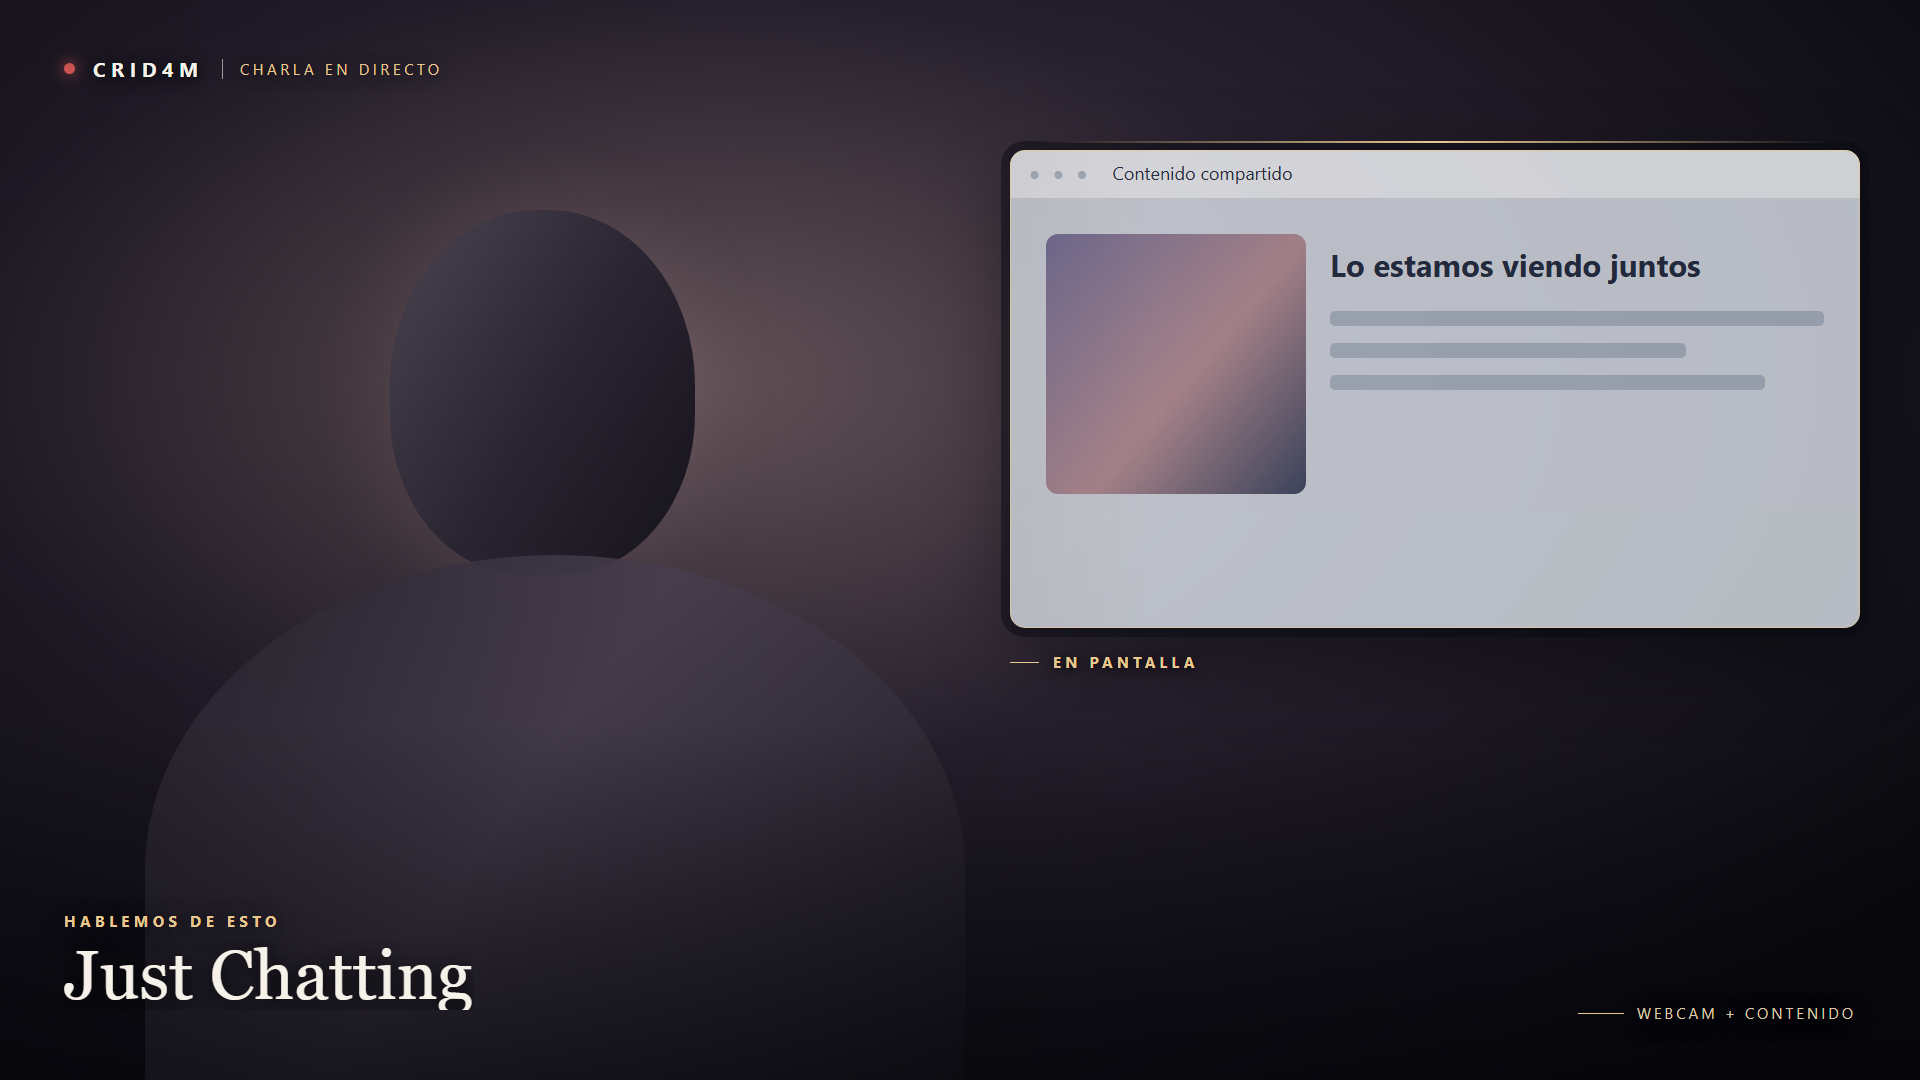
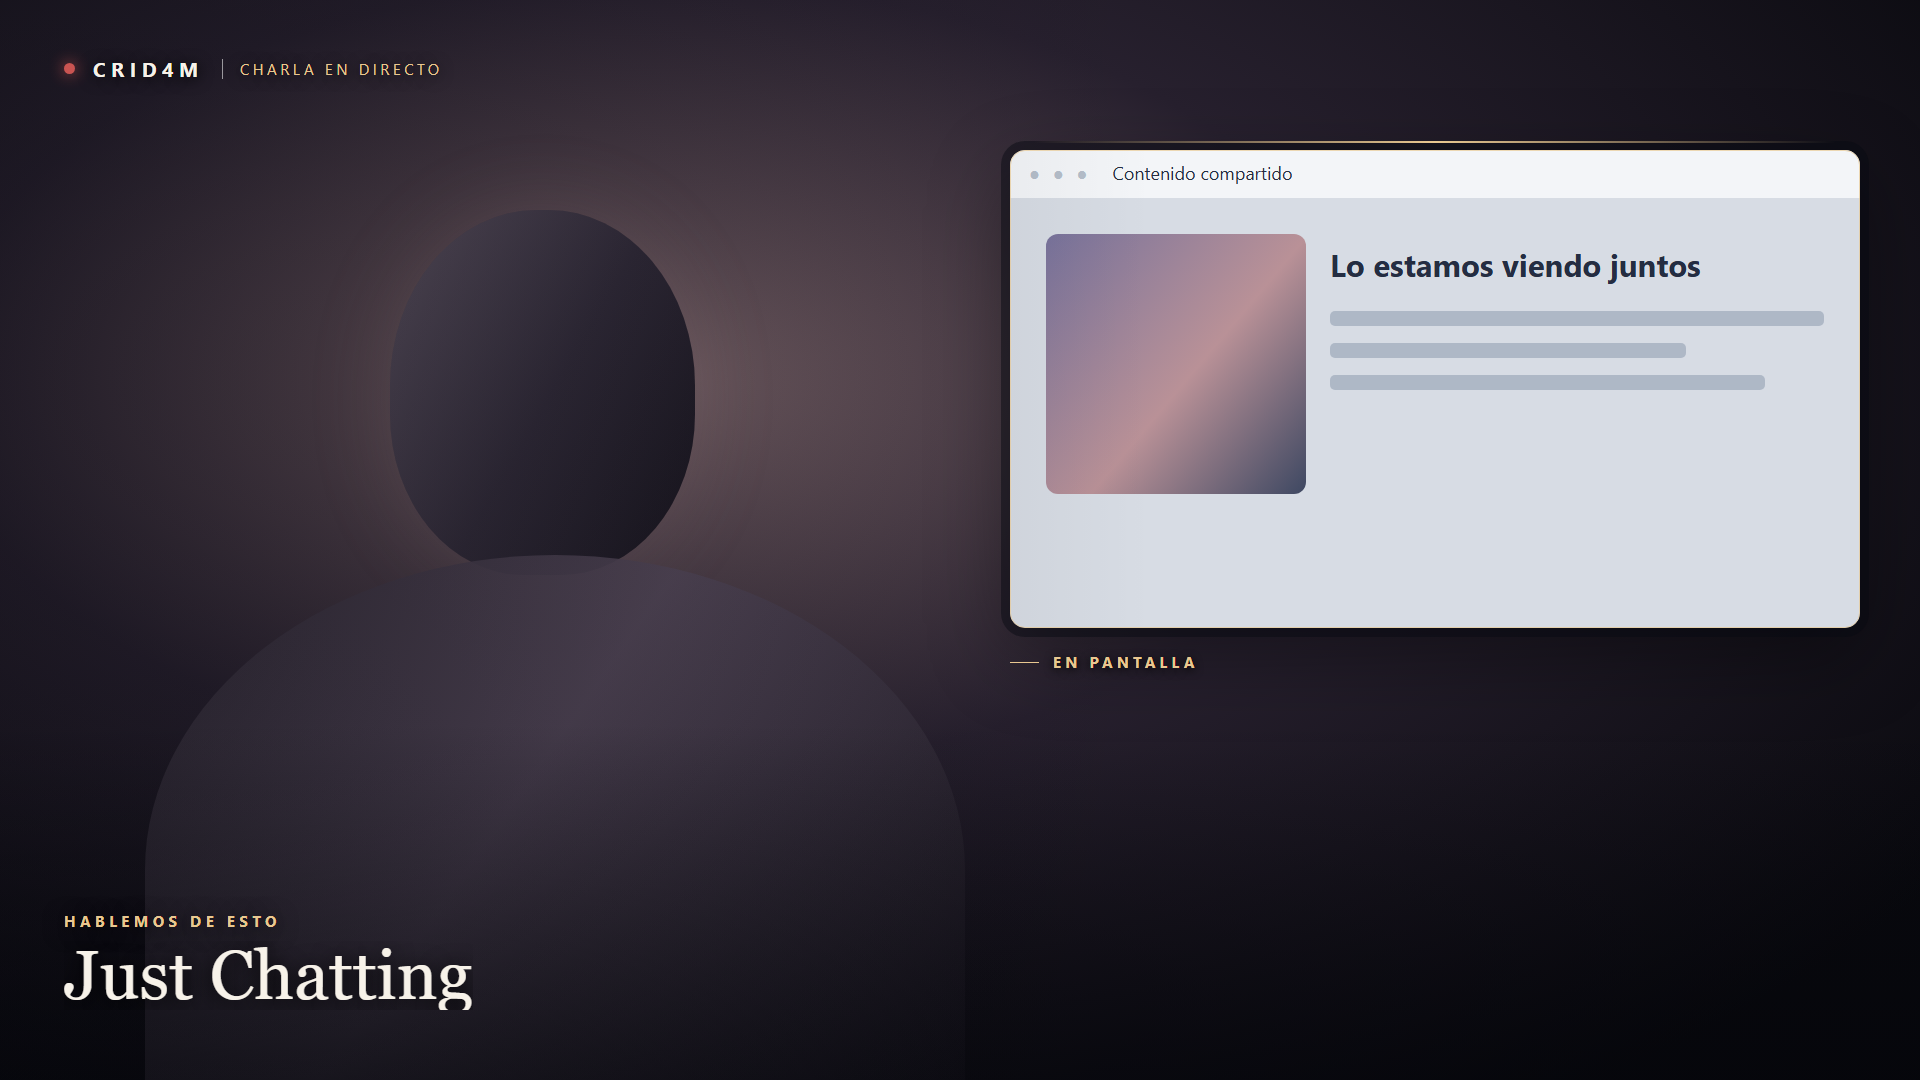
Charla + compartir usa la captura original y sale opaca por defecto
- La captura va dentro de una escena auxiliar con el filtro de opacidad:
  ya no se copia, sigue a la original y no captura dos veces. La copia
  antigua se retira al volver a crear la escena.
- Opacidad del 65 al 100 %, opaca por defecto; sin el rótulo
  «Webcam + contenido».

Changed region(s): [[0.5, 0.1222, 0.9688, 0.5806], [0.8438, 0.9167, 0.9688, 0.9472]]

diff --git a/src/panel/obs-setup.ts b/src/panel/obs-setup.ts
@@ -417,34 +417,41 @@ export async function crearEscena(pedir: PedirObs, tipo: TipoEscena): Promise<st
   return hecho;
 }
 
-/** Charla con cámara a pantalla completa y una captura independiente semitransparente. */
-export const ESCENA_COMPARTIDA = { escena: '✦ Charla + compartir', fuente: 'ESC Charla compartir', captura: 'ESC Compartir contenido' } as const;
+/**
+ * Charla con la cámara a pantalla completa y tu captura a la derecha.
+ * La captura no se copia: va dentro de una escena auxiliar («capa») y el
+ * filtro de opacidad se pone a esa escena. Así, si cambias de ventana en la
+ * captura original, aquí se ve lo mismo, y la original no lleva filtros nuevos.
+ */
+export const ESCENA_COMPARTIDA = { escena: '✦ Charla + compartir', fuente: 'ESC Charla compartir', capa: 'ESC Compartir (capa)' } as const;
+/** La copia que se hacía antes (2 oct 2026); si queda, se retira. */
+const COPIA_ANTIGUA = 'ESC Compartir contenido';
 export const urlCharlaCompartida = () =>
   `http://127.0.0.1:${config.panel.port}/biblioteca/overlays/charla-compartida.html`;
 export const HUECO_COMPARTIDO = { x: 1010, y: 150, ancho: 850, alto: 478 };
 const KINDS_COMPARTIR = ['monitor_capture', 'window_capture', 'game_capture', 'screen_capture', 'xcomposite_input', 'pipewire'];
 const FILTRO_COMPARTIR = 'ESC Transparencia de compartir';
 
-export async function crearCharlaCompartida(pedir: PedirObs, origen?: string, opacidad = .84): Promise<string[]> {
-  const { escena, fuente, captura } = ESCENA_COMPARTIDA;
+export async function crearCharlaCompartida(pedir: PedirObs, origen?: string, opacidad = 1): Promise<string[]> {
+  const { escena, fuente, capa } = ESCENA_COMPARTIDA;
   const { inputs } = await pedir<{ inputs: { inputName: string; inputKind: string }[] }>('GetInputList');
+  if (origen === COPIA_ANTIGUA || origen === fuente) throw new ErrorObs('Elige la captura original, no una fuente de esta escena.');
   const origenInput = origen ? inputs.find((i) => i.inputName === origen && KINDS_COMPARTIR.some((k) => i.inputKind.startsWith(k))) : null;
   if (origen && !origenInput) throw new ErrorObs('Elige una captura de pantalla, ventana o juego que exista en OBS.');
-  if (origen === captura || origen === fuente) throw new ErrorObs('Elige la captura original, no una fuente de esta escena.');
-  const copiaActual = inputs.find((i) => i.inputName === captura);
-  if (origenInput && copiaActual && copiaActual.inputKind !== origenInput.inputKind) {
-    throw new ErrorObs('La captura anterior era de otro tipo. Elimina «ESC Compartir contenido» en OBS y vuelve a crear esta escena.');
-  }
 
   const hecho: string[] = [];
-  try {
-    await pedir('CreateScene', { sceneName: escena });
-    hecho.push(`Escena «${escena}» creada.`);
-  } catch (err) {
-    if (!(err instanceof ErrorObs) || err.codigo !== YA_EXISTE) throw err;
-    hecho.push(`La escena «${escena}» ya existía: se completa sin mover tus fuentes.`);
-  }
-  const items = async () => (await pedir<{ sceneItems: { sourceName: string; sceneItemId: number }[] }>('GetSceneItemList', { sceneName: escena })).sceneItems;
+  const crearEscenaSiFalta = async (nombre: string) => {
+    try {
+      await pedir('CreateScene', { sceneName: nombre });
+      return true;
+    } catch (err) {
+      if (!(err instanceof ErrorObs) || err.codigo !== YA_EXISTE) throw err;
+      return false;
+    }
+  };
+  hecho.push(await crearEscenaSiFalta(escena) ? `Escena «${escena}» creada.` : `La escena «${escena}» ya existía: se completa sin mover tus fuentes.`);
+  const itemsDe = async (nombre: string) => (await pedir<{ sceneItems: { sourceName: string; sceneItemId: number }[] }>('GetSceneItemList', { sceneName: nombre })).sceneItems;
+  const items = () => itemsDe(escena);
   const ajustes = { width: 1920, height: 1080, ...FPS, is_local_file: false, url: urlCharlaCompartida(), shutdown: true, restart_when_active: false, reroute_audio: false };
   let overlayId = (await items()).find((i) => i.sourceName === fuente)?.sceneItemId;
   if (inputs.some((i) => i.inputName === fuente)) {
@@ -470,26 +477,36 @@ export async function crearCharlaCompartida(pedir: PedirObs, origen?: string, op
     hecho.push(`Webcam «${cam.inputName}» a pantalla completa.`);
   }
 
+  // La copia de antes la creaba este panel y no la usa nada más: fuera, para no capturar dos veces.
+  if (inputs.some((i) => i.inputName === COPIA_ANTIGUA)) {
+    await pedir('RemoveInput', { inputName: COPIA_ANTIGUA });
+    hecho.push(`Quitada la copia antigua «${COPIA_ANTIGUA}»: ahora se usa tu captura original.`);
+  }
+
   if (!origenInput) hecho.push('Selecciona una captura de OBS para mostrarla a la derecha.');
   else {
-    const { inputSettings } = await pedir<{ inputSettings: Record<string, unknown> }>('GetInputSettings', { inputName: origenInput.inputName });
-    const copiaExiste = inputs.some((i) => i.inputName === captura);
-    let id = (await items()).find((i) => i.sourceName === captura)?.sceneItemId;
-    if (copiaExiste) {
-      await pedir('SetInputSettings', { inputName: captura, inputSettings, overlay: false });
-      if (id === undefined) ({ sceneItemId: id } = await pedir<{ sceneItemId: number }>('CreateSceneItem', { sceneName: escena, sourceName: captura, sceneItemEnabled: true }));
-    } else {
-      ({ sceneItemId: id } = await pedir<{ sceneItemId: number }>('CreateInput', { sceneName: escena, inputName: captura, inputKind: origenInput.inputKind, inputSettings, sceneItemEnabled: true }));
-    }
-    // Una captura que traiga audio no debe duplicar el sonido de la fuente original.
-    await pedir('SetInputMute', { inputName: captura, inputMuted: true }).catch(() => {});
-    const { filters } = await pedir<{ filters: { filterName: string }[] }>('GetSourceFilterList', { sourceName: captura });
-    if (filters.some((f) => f.filterName === FILTRO_COMPARTIR)) {
-      await pedir('SetSourceFilterSettings', { sourceName: captura, filterName: FILTRO_COMPARTIR, filterSettings: { opacity: opacidad }, overlay: true });
-    } else {
-      await pedir('CreateSourceFilter', { sourceName: captura, filterName: FILTRO_COMPARTIR, filterKind: KIND_COLOR, filterSettings: { opacity: opacidad } });
-    }
     const { baseWidth, baseHeight } = await pedir<{ baseWidth: number; baseHeight: number }>('GetVideoSettings');
+    // En la capa solo va la captura elegida, llenando el lienzo.
+    await crearEscenaSiFalta(capa);
+    let idEnCapa: number | undefined;
+    for (const i of await itemsDe(capa)) {
+      if (i.sourceName === origenInput.inputName && idEnCapa === undefined) idEnCapa = i.sceneItemId;
+      else await pedir('RemoveSceneItem', { sceneName: capa, sceneItemId: i.sceneItemId });
+    }
+    if (idEnCapa === undefined) ({ sceneItemId: idEnCapa } = await pedir<{ sceneItemId: number }>('CreateSceneItem', { sceneName: capa, sourceName: origenInput.inputName, sceneItemEnabled: true }));
+    await pedir('SetSceneItemTransform', { sceneName: capa, sceneItemId: idEnCapa, sceneItemTransform: {
+      positionX: 0, positionY: 0, alignment: 5, rotation: 0,
+      boundsType: 'OBS_BOUNDS_SCALE_INNER', boundsAlignment: 0, boundsWidth: baseWidth, boundsHeight: baseHeight,
+    } });
+    const { filters } = await pedir<{ filters: { filterName: string }[] }>('GetSourceFilterList', { sourceName: capa });
+    if (filters.some((f) => f.filterName === FILTRO_COMPARTIR)) {
+      await pedir('SetSourceFilterSettings', { sourceName: capa, filterName: FILTRO_COMPARTIR, filterSettings: { opacity: opacidad }, overlay: true });
+    } else if (opacidad < 1) {
+      await pedir('CreateSourceFilter', { sourceName: capa, filterName: FILTRO_COMPARTIR, filterKind: KIND_COLOR, filterSettings: { opacity: opacidad } });
+    }
+
+    let id = (await items()).find((i) => i.sourceName === capa)?.sceneItemId;
+    if (id === undefined) ({ sceneItemId: id } = await pedir<{ sceneItemId: number }>('CreateSceneItem', { sceneName: escena, sourceName: capa, sceneItemEnabled: true }));
     const sx = baseWidth / 1920, sy = baseHeight / 1080;
     const r = HUECO_COMPARTIDO;
     await pedir('SetSceneItemTransform', { sceneName: escena, sceneItemId: id, sceneItemTransform: {
@@ -497,7 +514,9 @@ export async function crearCharlaCompartida(pedir: PedirObs, origen?: string, op
       boundsType: 'OBS_BOUNDS_SCALE_INNER', boundsAlignment: 0, boundsWidth: r.ancho * sx, boundsHeight: r.alto * sy,
     } });
     await pedir('SetSceneItemIndex', { sceneName: escena, sceneItemId: id, sceneItemIndex: cam ? 1 : 0 });
-    hecho.push(`Copia independiente de «${origenInput.inputName}» colocada a la derecha con ${Math.round(opacidad * 100)} % de opacidad.`);
+    hecho.push(opacidad < 1
+      ? `«${origenInput.inputName}» a la derecha con ${Math.round(opacidad * 100)} % de opacidad. Sigue a tu captura original.`
+      : `«${origenInput.inputName}» a la derecha, opaca. Sigue a tu captura original.`);
   }
   await pedir('SetSceneItemIndex', { sceneName: escena, sceneItemId: overlayId, sceneItemIndex: (await items()).length - 1 });
   return hecho;

diff --git a/src/panel/panel.test.ts b/src/panel/panel.test.ts
@@ -118,6 +118,15 @@ const obsFalso: ConObs = async (trabajo) => {
       case 'CreateScene':
         if (obs.items[d.sceneName]) throw yaExiste();
         obs.items[d.sceneName] = [];
+        obs.filtros[d.sceneName] = [];
+        return {};
+      case 'RemoveSceneItem':
+        obs.items[d.sceneName] = obs.items[d.sceneName]!.filter((i) => i.sceneItemId !== d.sceneItemId);
+        return {};
+      case 'RemoveInput':
+        obs.entradas = obs.entradas.filter((e) => e.inputName !== d.inputName);
+        for (const [escena, lista] of Object.entries(obs.items)) obs.items[escena] = lista.filter((i) => i.sourceName !== d.inputName);
+        delete obs.filtros[d.inputName];
         return {};
       case 'SetSceneItemIndex': {
         const lista = obs.items[d.sceneName];
@@ -828,23 +837,37 @@ describe('Escenas', () => {
     assert.equal((await post('/api/escenas/obs', { tipo: 'otra' })).status, 400);
   });
 
-  test('Charla + compartir copia la captura con opacidad sin alterar la original', async () => {
+  test('Charla + compartir usa la captura original dentro de una capa, sin copiarla ni filtrarla', async () => {
+    const escena = '✦ Charla + compartir', capa = 'ESC Compartir (capa)';
     obs.entradas.push({ inputName: 'Cámara', inputKind: 'dshow_input', settings: {} });
+    obs.entradas.push({ inputName: 'Navegador', inputKind: 'window_capture', settings: {} });
+    // Una copia de la versión anterior: se retira.
+    obs.entradas.push({ inputName: 'ESC Compartir contenido', inputKind: 'game_capture', settings: {} });
     obs.entradas.find((e) => e.inputName === 'Juego')!.settings = { capture_mode: 'window' };
     const r = await post('/api/escenas/obs', { tipo: 'compartir', fuenteCompartida: 'Juego' });
     assert.equal(r.status, 200);
-    assert.deepEqual(obs.items['✦ Charla + compartir']!.map((i) => i.sourceName), ['Cámara', 'ESC Compartir contenido', 'ESC Charla compartir']);
+    assert.deepEqual(obs.items[escena]!.map((i) => i.sourceName), ['Cámara', capa, 'ESC Charla compartir']);
+    assert.deepEqual(obs.items[capa]!.map((i) => i.sourceName), ['Juego']);
+    assert.ok(!obs.entradas.some((e) => e.inputName === 'ESC Compartir contenido'));
     assert.deepEqual(obs.entradas.find((e) => e.inputName === 'Juego')!.settings, { capture_mode: 'window' });
     assert.equal(obs.filtros['Juego']!.length, 0);
-    assert.equal(obs.filtros['ESC Compartir contenido']![0]!.settings.opacity, .84);
-    const copia = obs.items['✦ Charla + compartir']!.find((i) => i.sourceName === 'ESC Compartir contenido')!;
-    assert.equal(obs.transformes[copia.sceneItemId].boundsWidth, 850 * (2560 / 1920));
-    assert.equal(obs.transformes[copia.sceneItemId].positionX, 1010 * (2560 / 1920));
-    assert.equal((await post('/api/escenas/obs', { tipo: 'compartir', fuenteCompartida: 'Juego', opacidad: .72 })).status, 200);
-    assert.equal(obs.items['✦ Charla + compartir']!.length, 3);
-    assert.equal(obs.filtros['ESC Compartir contenido']!.length, 1);
-    assert.equal(obs.filtros['ESC Compartir contenido']![0]!.settings.opacity, .72);
+    // Opaca por defecto: ni siquiera hace falta el filtro.
+    assert.equal(obs.filtros[capa]!.length, 0);
+    const enEscena = obs.items[escena]!.find((i) => i.sourceName === capa)!;
+    assert.equal(obs.transformes[enEscena.sceneItemId].boundsWidth, 850 * (2560 / 1920));
+    assert.equal(obs.transformes[enEscena.sceneItemId].positionX, 1010 * (2560 / 1920));
+
+    // Cambiar de captura y bajar la opacidad: la capa solo lleva la nueva, y el filtro va en la capa.
+    assert.equal((await post('/api/escenas/obs', { tipo: 'compartir', fuenteCompartida: 'Navegador', opacidad: .72 })).status, 200);
+    assert.equal(obs.items[escena]!.length, 3);
+    assert.deepEqual(obs.items[capa]!.map((i) => i.sourceName), ['Navegador']);
+    assert.ok(obs.items['Escena juego']!.some((i) => i.sourceName === 'Juego'), 'la captura sigue en su escena');
+    assert.equal(obs.filtros[capa]![0]!.settings.opacity, .72);
+    assert.equal(obs.filtros['Navegador'], undefined);
+    assert.equal((await post('/api/escenas/obs', { tipo: 'compartir', fuenteCompartida: 'Navegador', opacidad: 1 })).status, 200);
+    assert.equal(obs.filtros[capa]![0]!.settings.opacity, 1);
     assert.equal((await post('/api/escenas/obs', { tipo: 'compartir', fuenteCompartida: 'Juego', opacidad: .2 })).status, 400);
+    assert.equal((await post('/api/escenas/obs', { tipo: 'compartir', fuenteCompartida: 'ESC Compartir contenido' })).status, 502);
   });
 });
 

diff --git a/biblioteca/overlays/charla-compartida.html b/biblioteca/overlays/charla-compartida.html
@@ -13,7 +13,7 @@
   .demo-camara { display: none; position: absolute; inset: 0; background: radial-gradient(ellipse at 34% 35%, #725d63 0%, #27202e 40%, #09090e 88%); }
   .demo-camara::before { content: ''; position: absolute; left: 390px; top: 210px; width: 305px; height: 365px; border-radius: 48% 48% 44% 44%; background: linear-gradient(120deg, #5c5261, #302a38 52%, #17141d); box-shadow: 0 0 85px rgba(185, 157, 153, .16); }
   .demo-camara::after { content: ''; position: absolute; left: 145px; top: 555px; width: 820px; height: 630px; border-radius: 50% 50% 0 0; background: linear-gradient(125deg, #302a36, #514657 43%, #17141d); opacity: .9; }
-  .demo-muestra { display: none; position: absolute; left: 1010px; top: 150px; width: 850px; height: 478px; overflow: hidden; border-radius: 15px; background: #d7dce4; opacity: var(--opacidad-compartida, .84); color: #242d42; font: 18px 'Segoe UI', sans-serif; }
+  .demo-muestra { display: none; position: absolute; left: 1010px; top: 150px; width: 850px; height: 478px; overflow: hidden; border-radius: 15px; background: #d7dce4; opacity: var(--opacidad-compartida, 1); color: #242d42; font: 18px 'Segoe UI', sans-serif; }
   .demo-muestra .barra { height: 48px; padding: 11px 19px; background: #f3f5f8; font-size: 18px; }
   .demo-muestra .barra::before { content: '● ● ●'; color: #b5beca; margin-right: 21px; letter-spacing: 4px; }
   .demo-muestra .contenido { display: flex; gap: 24px; padding: 36px; }
@@ -37,8 +37,6 @@
   .pie .kicker { color: var(--oro); font-size: 15px; letter-spacing: .3em; font-weight: 700; text-transform: uppercase; }
   .pie h1 { margin: 10px 0 0; font-family: Georgia, serif; font-size: 69px; font-weight: 400; line-height: 1; overflow: hidden; text-overflow: ellipsis; white-space: nowrap; }
   .pie .tema { margin-top: 13px; font-size: 23px; color: #eee5d7; overflow: hidden; text-overflow: ellipsis; white-space: nowrap; }
-  .pie .detalle { display: flex; gap: 13px; align-items: center; color: #ddc9a9; font-size: 15px; letter-spacing: .2em; text-transform: uppercase; }
-  .pie .detalle::before { content: ''; width: 46px; height: 1px; background: var(--oro); }
   @media (prefers-reduced-motion: no-preference) { .marca { animation: pulso 2.2s ease-in-out infinite; } @keyframes pulso { 50% { opacity: .5; box-shadow: 0 0 8px #e65f5a; } } }
 </style>
 </head>
@@ -49,12 +47,12 @@
   <header class="cabecera"><i class="marca"></i><strong id="canal">Crid4m</strong><span>Charla en directo</span></header>
   <div class="muestra-marco"></div>
   <div class="muestra-etiqueta">En pantalla</div>
-  <footer class="pie"><div class="texto"><div class="kicker">Hablemos de esto</div><h1 id="rotulo">Just Chatting</h1><div class="tema" id="tema"></div></div><div class="detalle">Webcam + contenido</div></footer>
+  <footer class="pie"><div class="texto"><div class="kicker">Hablemos de esto</div><h1 id="rotulo">Just Chatting</h1><div class="tema" id="tema"></div></div></footer>
 <script>
   const q = new URLSearchParams(location.search);
   if (q.get('demo') === '1') document.body.classList.add('demo');
   const opacidad = Number(q.get('opacidad'));
-  if (Number.isFinite(opacidad) && opacidad >= .65 && opacidad <= .95) document.documentElement.style.setProperty('--opacidad-compartida', opacidad);
+  if (Number.isFinite(opacidad) && opacidad >= .65 && opacidad <= 1) document.documentElement.style.setProperty('--opacidad-compartida', opacidad);
   async function actualizar() {
     if (document.body.classList.contains('demo')) return;
     try {

diff --git a/src/panel/server.ts b/src/panel/server.ts
@@ -749,8 +749,8 @@ async function atender(server: Server, sb: PuertoStreamerbot, obs: ConObs, req: 
     }
     if (tipo === 'compartir') {
       if (fuenteCompartida !== undefined && (typeof fuenteCompartida !== 'string' || fuenteCompartida.length > 200)) throw new ErrorHttp(400, 'captura no válida');
-      if (opacidad !== undefined && (typeof opacidad !== 'number' || !Number.isFinite(opacidad) || opacidad < .65 || opacidad > .95)) throw new ErrorHttp(400, 'opacidad no válida');
-      const hecho = await obs((pedir) => obsSetup.crearCharlaCompartida(pedir, fuenteCompartida || undefined, opacidad ?? .84)).catch((err) => {
+      if (opacidad !== undefined && (typeof opacidad !== 'number' || !Number.isFinite(opacidad) || opacidad < .65 || opacidad > 1)) throw new ErrorHttp(400, 'opacidad no válida');
+      const hecho = await obs((pedir) => obsSetup.crearCharlaCompartida(pedir, fuenteCompartida || undefined, opacidad ?? 1)).catch((err) => {
         throw new ErrorHttp(502, err instanceof Error ? err.message : String(err));
       });
       for (const h of hecho) log.info(`Panel → OBS: ${h}`);
